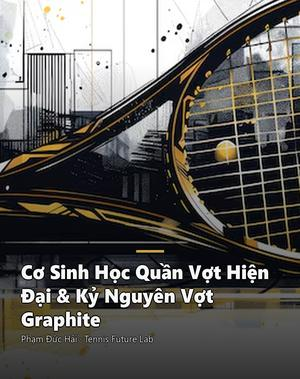
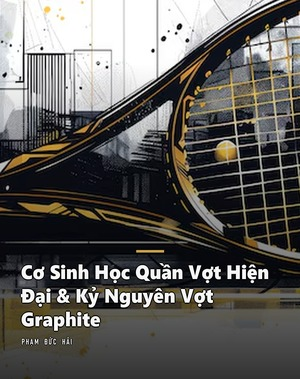
Covers #9/#12: drop volume numeral, reduce author to Pham Duc Hai
Book covers carried a baked-in "9 · TENNIS FUTURE LAB (2026)" /
"12 · TENNIS FUTURE LAB (2026)" kicker and a "Pham Duc Hai · Tennis Future
Lab" author line, which the rest of the TFL shelf does not have. Regenerated
both from _inv/_gen_cover.py's own source artwork so the type is not patched
but redrawn:

  - kicker is now the series line "TENNIS FUTURE LAB · CHUYEN KHAO",
    Bahnschrift SemiBold Condensed 19 / track 5.2 at MARGIN 72, baseline 78 --
    the same call make_covers_v4.make() uses, so the cap band lands on the
    identical pixels as #10/#11 (measured y 61-77, x 72-442).
  - author is now "PHAM DUC HAI" alone, series treatment (25 / track 3.4).
  - title, gold accent rule, scrims and thumb crop are unchanged.

Reader pages: the "· Tennis Future Lab" tail is gone from the author line and
footer of both; book 12's badge drops "· Tac Pham 12" and its footer sig now
carries the book title instead of the house brand, matching #9/#10.

Changed region(s): [[0.06, 0.8707, 0.51, 0.9288], [0.63, 0.2612, 0.66, 0.2902]]

diff --git a/vi/books/12_modern_tennis_mechanics_deep_dive_vi.html b/vi/books/12_modern_tennis_mechanics_deep_dive_vi.html
@@ -5,7 +5,7 @@
 <meta name="viewport" content="width=device-width, initial-scale=1.0">
 <meta name="author" content="Phạm Đức Hải">
 <meta name="publisher" content="Tennis Future Lab · Chuyên Khảo">
-<link rel="canonical" href="https://tennis-unified.github.io/vi/books/12_modern_tennis_mechanics_deep_dive_vi.html">
+<link rel="canonical" href="https://tenniskb.github.io/vi/books/12_modern_tennis_mechanics_deep_dive_vi.html">
 <link href="https://fonts.googleapis.com/css2?family=Jost:ital,wght@0,200;0,300;0,400;0,500;0,600;1,300&family=DM+Sans:ital,wght@0,300;0,400;0,500;1,400&family=Space+Mono:wght@400;700&display=swap" rel="stylesheet">
 <link rel="stylesheet" href="https://fonts.googleapis.com/css?family=DM+Sans:300,300i,400,400i,700,700i%7CRoboto+Mono:400,400i,700,700i&display=fallback">
 <link rel="stylesheet" href="/assets/stylesheets/cerulean.min.css">
@@ -15,8 +15,8 @@
   <meta property="og:site_name" content="Tennis Future Lab · Chuyên Khảo">
   <meta property="og:title" content="Cơ Sinh Học Quần Vợt Hiện Đại &amp; Kỷ Nguyên Vợt Graphite · Cẩm Nang Phân Tích Chuyên Sâu">
   <meta property="og:description" content="Chuyên khảo đồng hành cùng 228 Mẹo Tennis Rod Laver: Toàn bộ 25 bảng đồ họa phân tích kỹ thuật vợt Graphite, phim tài liệu lịch sử Dunlop &amp; Prince, vật lý cước Co-Poly và hình học sân bãi ITF.">
-  <meta property="og:url" content="https://tennis-unified.github.io/vi/books/12_modern_tennis_mechanics_deep_dive_vi.html">
-  <meta property="og:image" content="https://tennis-unified.github.io/vi/books/12_modern_tennis_mechanics_deep_dive_vi_assets/cover.png">
+  <meta property="og:url" content="https://tenniskb.github.io/vi/books/12_modern_tennis_mechanics_deep_dive_vi.html">
+  <meta property="og:image" content="https://tenniskb.github.io/vi/books/12_modern_tennis_mechanics_deep_dive_vi_assets/cover.png">
   <meta property="og:locale" content="vi_VN">
   <meta property="og:locale:alternate" content="en_US">
   <meta name="twitter:card" content="summary_large_image">
@@ -315,13 +315,13 @@ body.no-en #lang-toggle{display:none}
 
   <main class="book-content" id="book-content">
     <div class="book-hero">
-      <span class="badge">Tennis Future Lab &middot; Chuyên Khảo &middot; Tác Phẩm 12</span>
+      <span class="badge">Tennis Future Lab &middot; Chuyên Khảo</span>
       <img class="book-cover" src="12_modern_tennis_mechanics_deep_dive_vi_assets/cover.png" alt="Bìa sách Cơ Sinh Học Quần Vợt Hiện Đại & Kỷ Nguyên Vợt Graphite · Cẩm Nang Phân Tích Chuyên Sâu">
 <h1>Cơ Sinh Học Quần Vợt Hiện Đại & Kỷ Nguyên Vợt Graphite · Cẩm Nang Phân Tích Chuyên Sâu</h1>
       <div class="meta-row">
         <span><i class="fa-solid fa-book"></i> Toàn văn tiếng Việt</span>
         <span><i class="fa-solid fa-layer-group"></i> 20 chương &middot; 4 phần</span>
-        <span><i class="fa-solid fa-user"></i> Phạm Đức Hải &middot; Tennis Future Lab</span>
+        <span><i class="fa-solid fa-user"></i> Phạm Đức Hải</span>
       </div>
     </div>
 
@@ -1542,6 +1542,6 @@ window.addEventListener('scroll', function(){
   spy();
 })();
 </script>
-<footer style="margin:3rem auto 0;max-width:46rem;padding:1.5rem 1rem 3rem;border-top:2px solid var(--secondary,#b8860b);text-align:center;font-family:var(--font-heading,Georgia,serif);color:#5b6572;font-size:0.9rem"><div style="font-weight:800;letter-spacing:0.18em;text-transform:uppercase;color:var(--primary,#0f3d2e);margin-bottom:.35rem">Tennis Future Lab</div><div>Phạm Đức Hải &middot; Tennis Future Lab &middot; Chuyên Khảo #12</div><div>Thư viện quần vợt Việt Nam.</div></footer>
+<footer style="margin:3rem auto 0;max-width:46rem;padding:1.5rem 1rem 3rem;border-top:2px solid var(--secondary,#b8860b);text-align:center;font-family:var(--font-heading,Georgia,serif);color:#5b6572;font-size:0.9rem"><div style="font-weight:800;letter-spacing:0.18em;text-transform:uppercase;color:var(--primary,#0f3d2e);margin-bottom:.35rem">Cơ Sinh Học Quần Vợt Hiện Đại</div><div>Phạm Đức Hải</div><div>Thư viện quần vợt Việt Nam.</div></footer>
 </body>
 </html>

diff --git a/vi/books/9_tu_co_khi_den_song_vi.html b/vi/books/9_tu_co_khi_den_song_vi.html
@@ -138,7 +138,7 @@ body.dark-mode .tcq-book strong{color:var(--tcq-ink) !important;}
   <img class="cover-art" src="9_tu_co_khi_den_song_vi_assets/cover.png" alt="Bìa sách Từ Cơ Khí Đến Sóng">
   <h1 class="sr-only">Từ Cơ Khí Đến Sóng — Mạc, Tensegrity (Cấu Trúc Căng-Tích Hợp) &amp; Cơ Học Sóng Trong Tennis</h1>
   <div class="kicker">Tennis Future Lab · Chuyên khảo</div>
-  <div class="by">Phạm Đức Hải · Tennis Future Lab</div>
+  <div class="by">Phạm Đức Hải</div>
 </header>
 <hr class="lead">
 <nav class="toc" id="toc"><h2 class="toc-title">Mục lục</h2>
@@ -395,7 +395,7 @@ body.dark-mode .tcq-book strong{color:var(--tcq-ink) !important;}
 <p>Cuốn sách này không phải một quy trình bạn thực hiện một lần rồi thôi. Mỗi ngày trên sân là một cơ hội để lắng nghe sóng trong cơ thể, tinh chỉnh nó, và cho phép nó bùng nổ tự do hơn một chút. Không có điểm đến trong hành trình này — chỉ có sự thực hành liên tục, sự tò mò không ngừng, và niềm vui của việc cảm nhận năng lượng chảy qua mình. Đừng gồng. Hãy buông, và để sóng làm phần còn lại.</p>
 </section>
 </main>
-<footer class="end"><div class="sig">TỪ CƠ KHÍ ĐẾN SÓNG</div><div>Phạm Đức Hải · Tennis Future Lab</div><div>Bạn không đánh bóng bằng cơ bắp. Bạn để sóng chạy xuyên qua cơ thể.</div></footer>
+<footer class="end"><div class="sig">TỪ CƠ KHÍ ĐẾN SÓNG</div><div>Phạm Đức Hải</div><div>Bạn không đánh bóng bằng cơ bắp. Bạn để sóng chạy xuyên qua cơ thể.</div></footer>
 </div>
 </div>
 </body>
